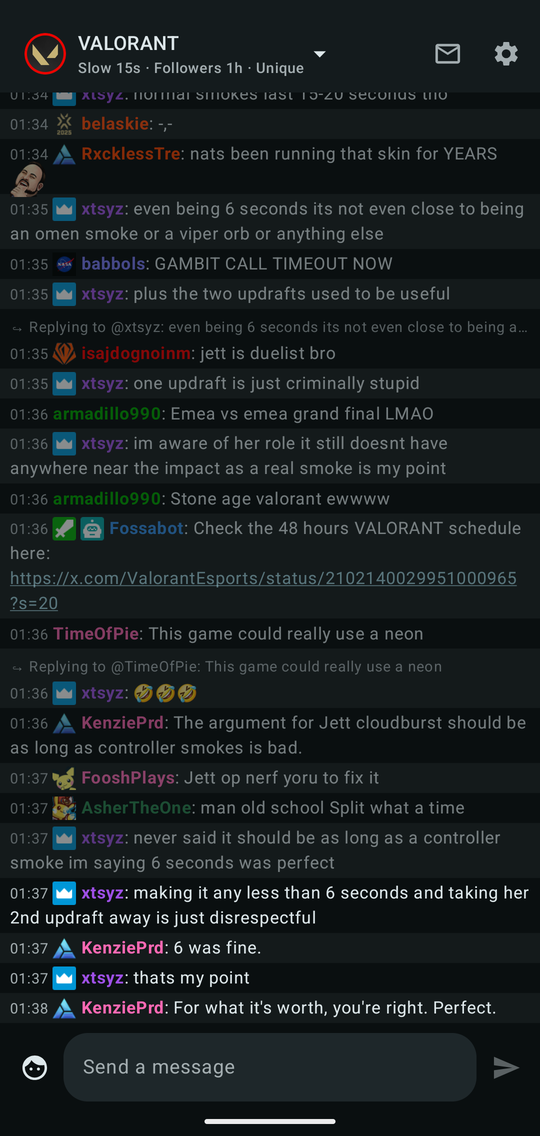
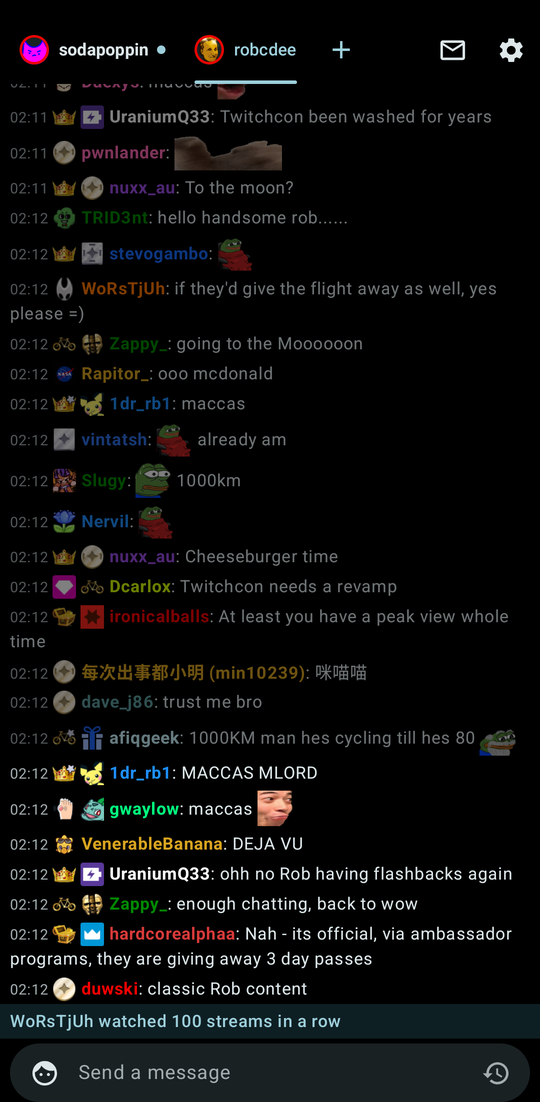
docs: refresh README and app screenshots
- Explain how to join the Google Play closed test
- Update feature descriptions and screenshots

diff --git a/README.md b/README.md
@@ -8,9 +8,6 @@
 <p align="center">
   A fast, native Twitch chat client for Android - based on Material 3, with full emote support for a rich chatting experience. 
 </p>
-<p align="center">
-  For reading and writing chat, not watching.
-</p>
 
 <p align="center">
   <a href="https://github.com/derLesh/Chatter/actions/workflows/ci.yml"><img src="https://github.com/derLesh/Chatter/actions/workflows/ci.yml/badge.svg?branch=master" alt="CI"></a>
@@ -18,28 +15,60 @@
   <img src="https://img.shields.io/badge/Android-13%2B-3DDC84?logo=android&logoColor=white" alt="Android 13+">
   <img src="https://img.shields.io/badge/Kotlin-2.3-7F52FF?logo=kotlin&logoColor=white" alt="Kotlin 2.3">
   <img src="https://img.shields.io/badge/Jetpack%20Compose-Material%203-4285F4?logo=jetpackcompose&logoColor=white" alt="Jetpack Compose">
-  <a href="https://derlesh.github.io/Chatter/privacy-policy.html"><img src="https://img.shields.io/badge/tracking-none-2ea44f" alt="No tracking"></a>
 </p>
 
 <p align="center">
-  <img src="docs/screenshots/chat.png" alt="A busy channel with badges, emotes and reply threads" width="24%">
-  <img src="docs/screenshots/emotes.png" alt="The emote picker with Twitch, 7TV, BTTV and FFZ tabs" width="24%">
-  <img src="docs/screenshots/settings.png" alt="The settings overview" width="24%">
-  <img src="docs/screenshots/appearance.png" alt="Appearance settings: theme, highlight colour, name colours and app icon" width="24%">
+  <img src="docs/screenshots/chat.png" alt="A busy channel with emotes and badges, the open channels as tabs at the top" width="24%">
+  <img src="docs/screenshots/combined.png" alt="Several channels combined into one chat" width="24%">
+  <img src="docs/screenshots/user-card.png" alt="A user card with badges, actions and recent messages" width="24%">
+  <img src="docs/screenshots/settings.png" alt="The settings overview with search" width="24%">
 </p>
+
+> [!TIP]
+> **Help bring Chatter to Google Play.** Chatter is in closed testing there. Before it can go
+> public, Google requires at least 12 testers to stay in the test for 14 days in a row.
+>
+> 1. Join the [Chatter testers group](https://groups.google.com/g/chatter-dev-group/about). Google
+>    Play lets only its members into the test.
+> 2. Then [join the test on Google Play](https://play.google.com/apps/testing/me.lesh.chatter)
+>    with the same Google account, and install Chatter from there.
+> 3. Stay in the test for at least 14 days in a row.
+
+## Install
+
+**[Download the APK from the latest release](https://github.com/derLesh/Chatter/releases/latest)**
+and open it on your phone. Android may ask you to let your browser install apps; that is normal
+for an APK. Chatter needs Android 13 or newer. Reading works without an account;
+writing needs a Twitch account.
+
+**Google Play:** coming soon. Chatter is in closed testing there, and the box above says how to
+join.
+
+Want new features early? [Chatter Nightly](https://github.com/derLesh/Chatter/releases/tag/nightly)
+is built every night. It may break, and it installs next to Chatter as an app of its own.
 
 ## What it does
 
 **Read chat the way you like it**
 
-- Open several chats and switch seamlessly between them
-- Combine multiple chats into one
-- 7TV, BetterTTV and FrankerFaceZ emotes, animated, with a picker and autocomplete
+- Open your channels as tabs and swipe between them
+- Combine several channels into one chat, each message marked with its channel
+- Twitch, 7TV, BetterTTV and FrankerFaceZ emotes, animated, with a picker sorted by channel and
+  autocomplete
 - Emoji in the picker too, or typed by shortcode: `:smi` offers 😄
-- 7TV badges and paints on names, and cheers as animated cheermotes in their tier's colour
-- [Recent messages](https://recent-messages.robotty.de/) loaded as you join, so you never walk into an empty room
-- Text size, density, timestamps and name colours under your control
-- Choose between light and dark themes, Material You, and different app icons
+- 7TV badges and paints on names, cheers as animated cheermotes, giant emotes and message effects
+  like on Twitch
+- Images, GIFs and posts from X and Bluesky shown right in the chat
+- [Recent messages](https://recent-messages.robotty.de/) loaded as you join, so you most likely never see an empty chat
+- A mark where you stopped reading, and replies you tap to read the whole conversation
+- Read as a guest, and log in only when you want to write
+
+**Make it look like yours**
+
+- Text size, line spacing, timestamps and name colours under your control
+- Pick which badges and special messages you see
+- Light, dark or pure black, with Material You colours
+- App icons in eight colours or Pride
 
 **Never miss being mentioned**
 
@@ -48,44 +77,28 @@
 - An inbox collecting everything addressed to you across all your channels
 - Your own highlight words and rules for what deserves an alert, with a sound and vibration per
   channel
+- Follow a conversation and get notified about new replies in it
 - A notification when a channel goes live, with its title and category: your channels, and any
   followed channel you pick
 
 **Stay in the conversation**
 
 - Chat bubbles keep a channel floating over whatever else you are doing
-- Dedicated whisper and mention inbox
-- Switch between several Twitch accounts
+- Schedule messages for a later time
+- Quickly get your last three messages
+- Whispers in a chat of their own, one conversation per person
+- User cards with badges, recent messages and a private note
 - Nicknames for chatters, mute filters, blocking and reporting
+- Change chat modes and pin messages in channels you moderate
+- Switch between several Twitch accounts
 
 **Yours, and nobody else's**
 
 - No account beyond your Twitch login
 - No ads, and nothing about you is sent to us
-  ([privacy policy](https://derlesh.github.io/Chatter/privacy-policy.html))
-
-## Install
-
-Download the APK from the [latest release](https://github.com/derLesh/Chatter/releases/latest).
-Chatter needs Android 13 or newer. Reading works without an account; writing needs a Twitch account.
-
-Want the newest changes before a release? [Chatter Nightly](https://github.com/derLesh/Chatter/releases/tag/nightly)
-is built from master every night. It may break, and it is an app of its own: it installs next to
-Chatter, with its own login and settings.
-
-Three ways to check the download:
-
-- The SHA-256 next to the APK says it arrived whole.
-- `gh attestation verify chatter-<version>.apk --repo derLesh/Chatter` says GitHub saw the release
-  workflow build it from this repository.
-- `apksigner verify --print-certs chatter-<version>.apk` names the certificate it is signed with.
-  Every release of `me.lesh.chatter` is signed with this one:
-
-  ```text
[1 lines of base64/hex data omitted]
-  ```
-
-  Releases up to 0.9.0 were still `dev.chatter.app`, signed with another key.
+  ([privacy policy](https://chatter.lesh.me/privacy))
+- Save your settings, rules and channels to a file, or take them along to a new phone
+- Saves data on mobile networks, while the chat keeps arriving
 
 ## Security
 
